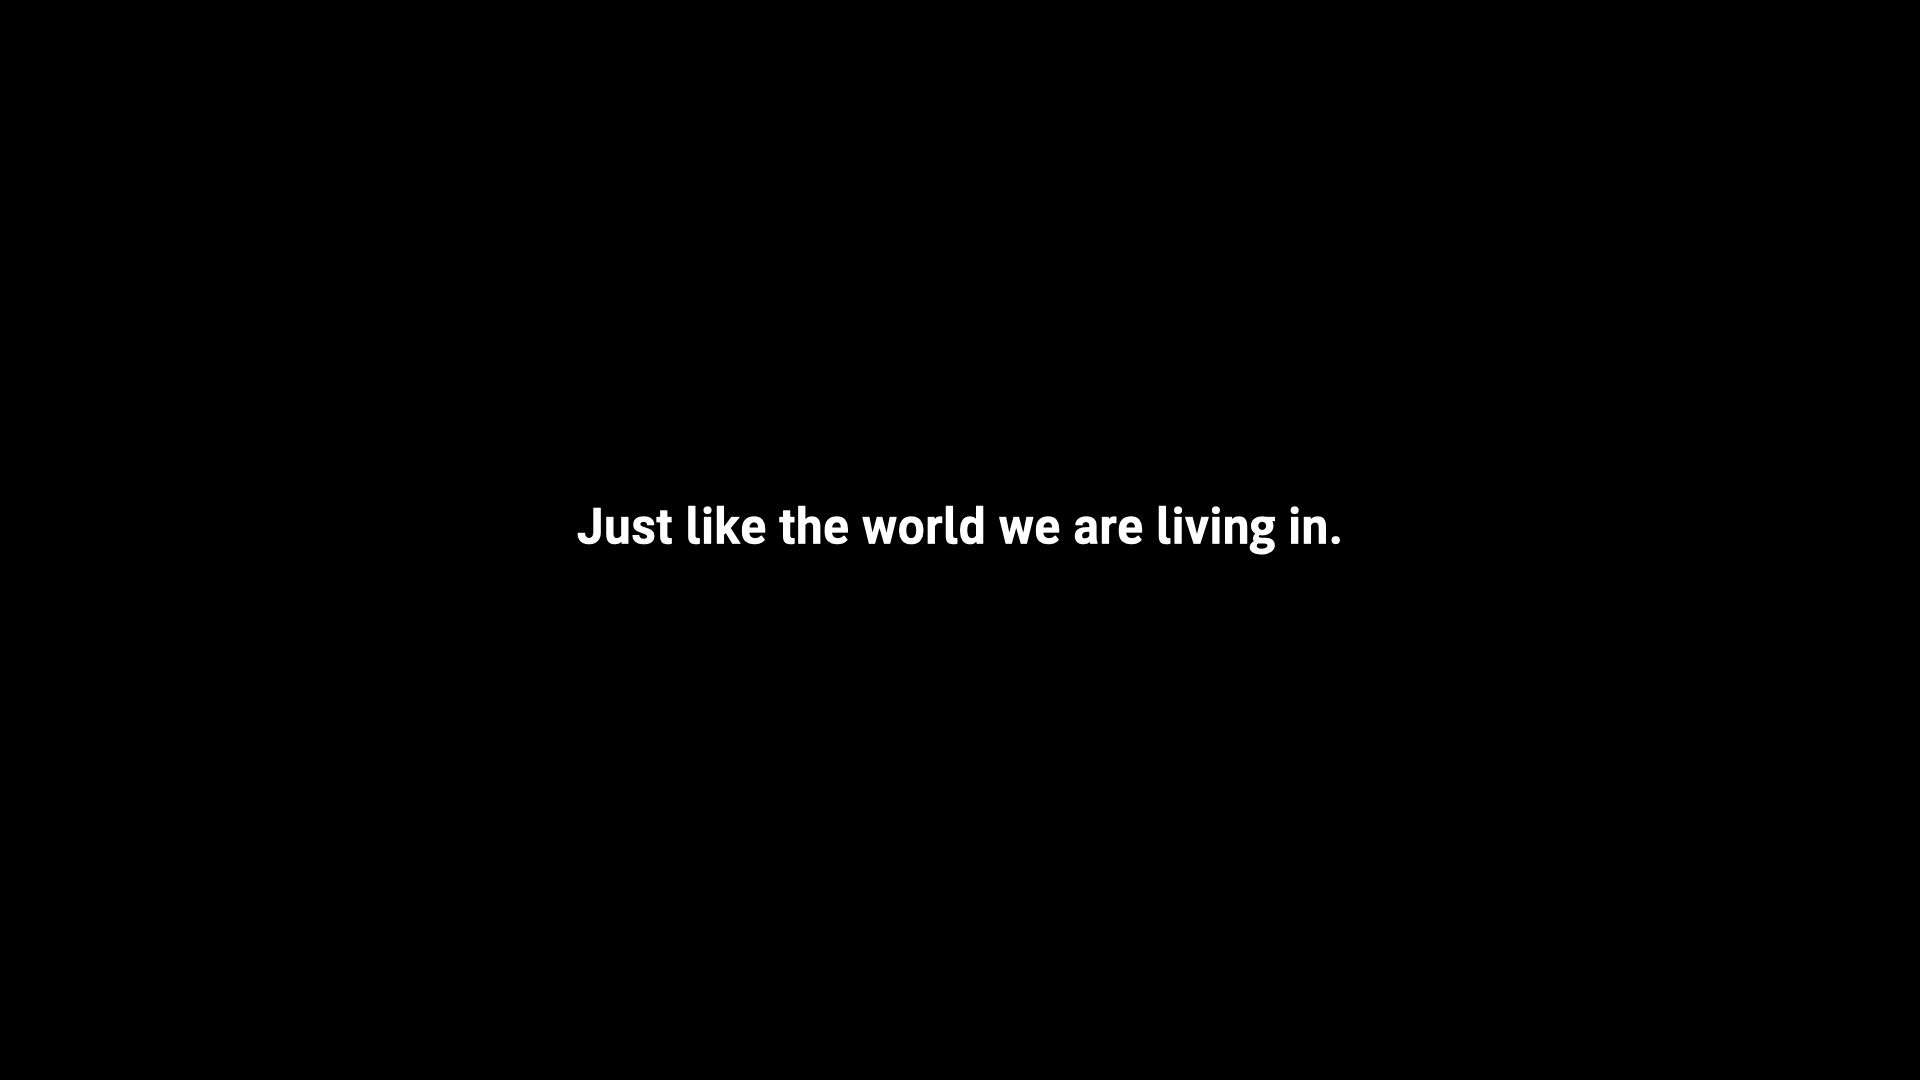
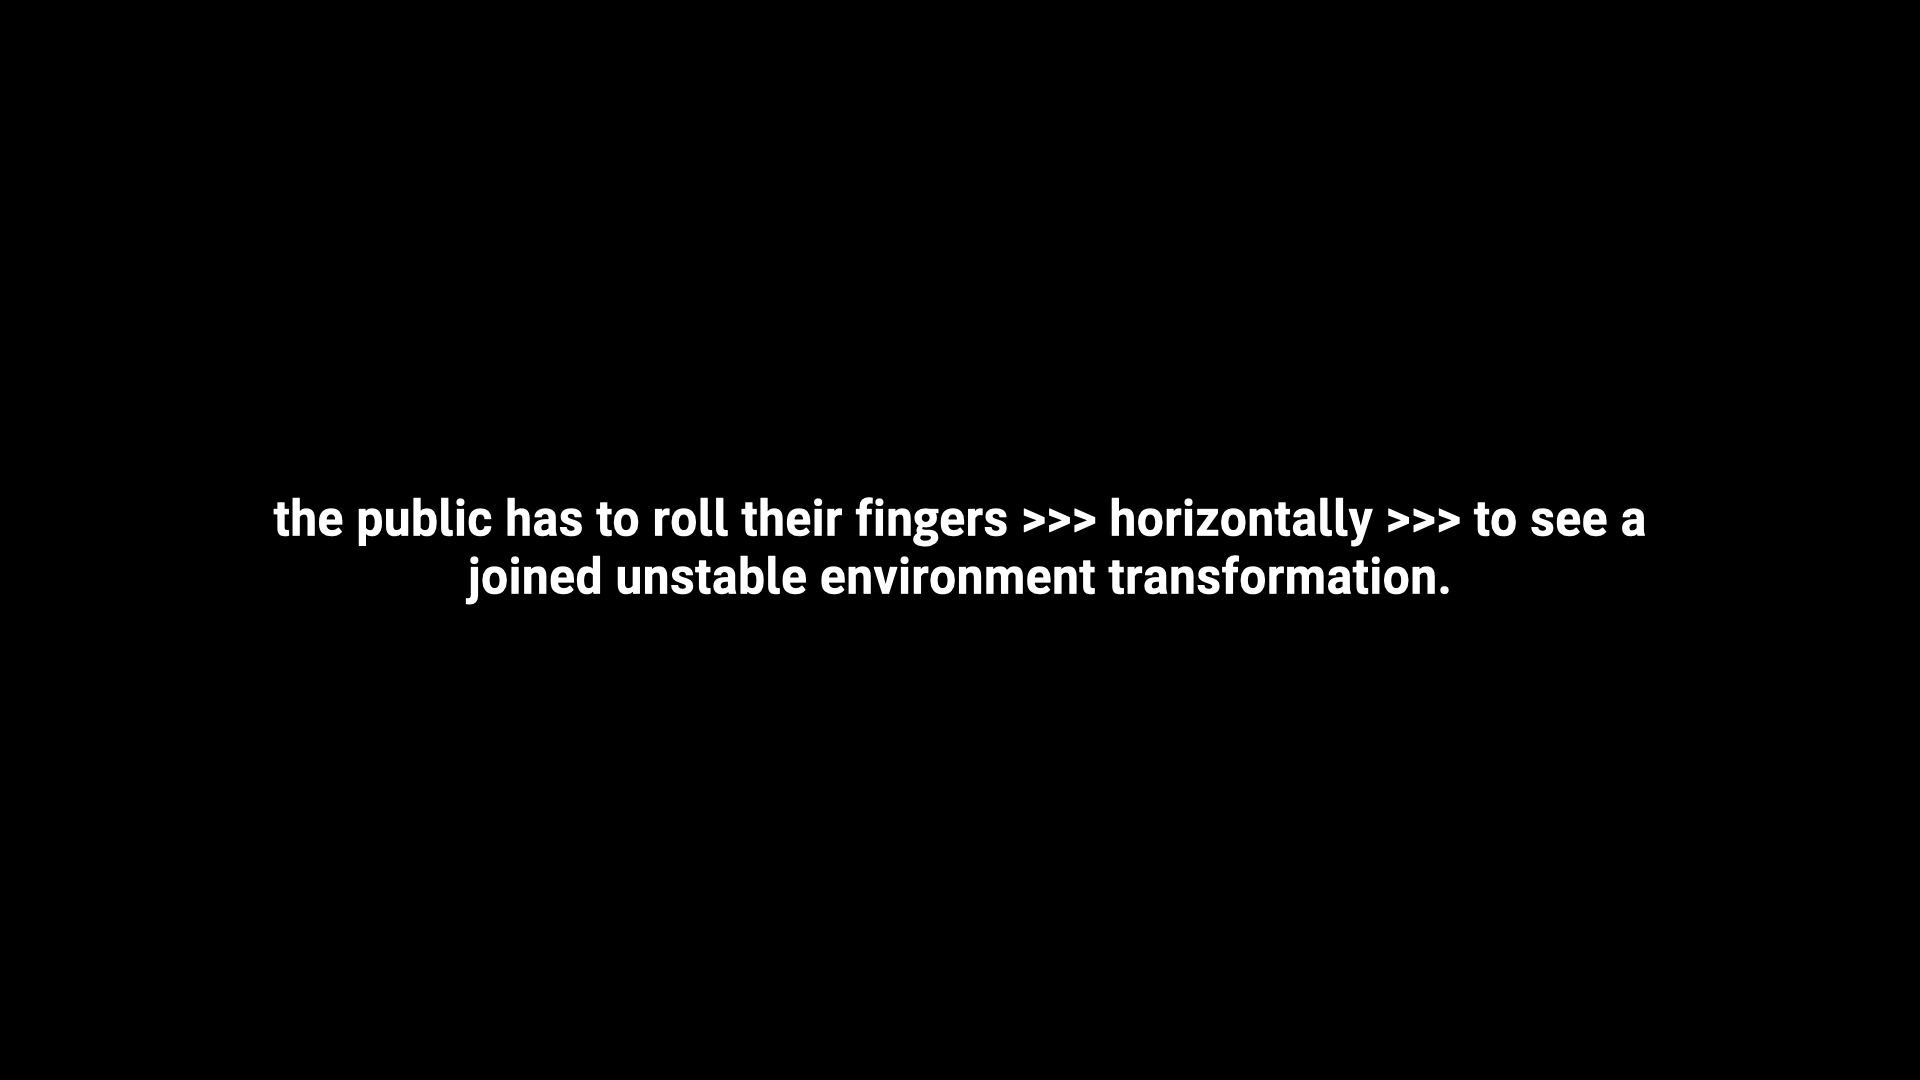
update text imgs

Changed region(s): [[0.125, 0.4583, 0.875, 0.55]]

diff --git a/main.js b/main.js
@@ -1,6 +1,6 @@
 const images = [];
 
-for (let i = 1; i < 11; i++) {
+for (let i = 1; i < 12; i++) {
   images.push(`./imgs/text_${("00".concat(i)).slice(-2)}.jpg`)
 }
 
@@ -9,7 +9,7 @@ for (let i = 0; i < 8; i++) {
   images.push(`./imgs/apocalypse_${("00".concat(i)).slice(-2)}.jpg`)
 }
 
-for (let i = 12; i < 18; i++) {
+for (let i = 13; i < 25; i++) {
   images.push(`./imgs/text_${("00".concat(i)).slice(-2)}.jpg`)
 }
 
